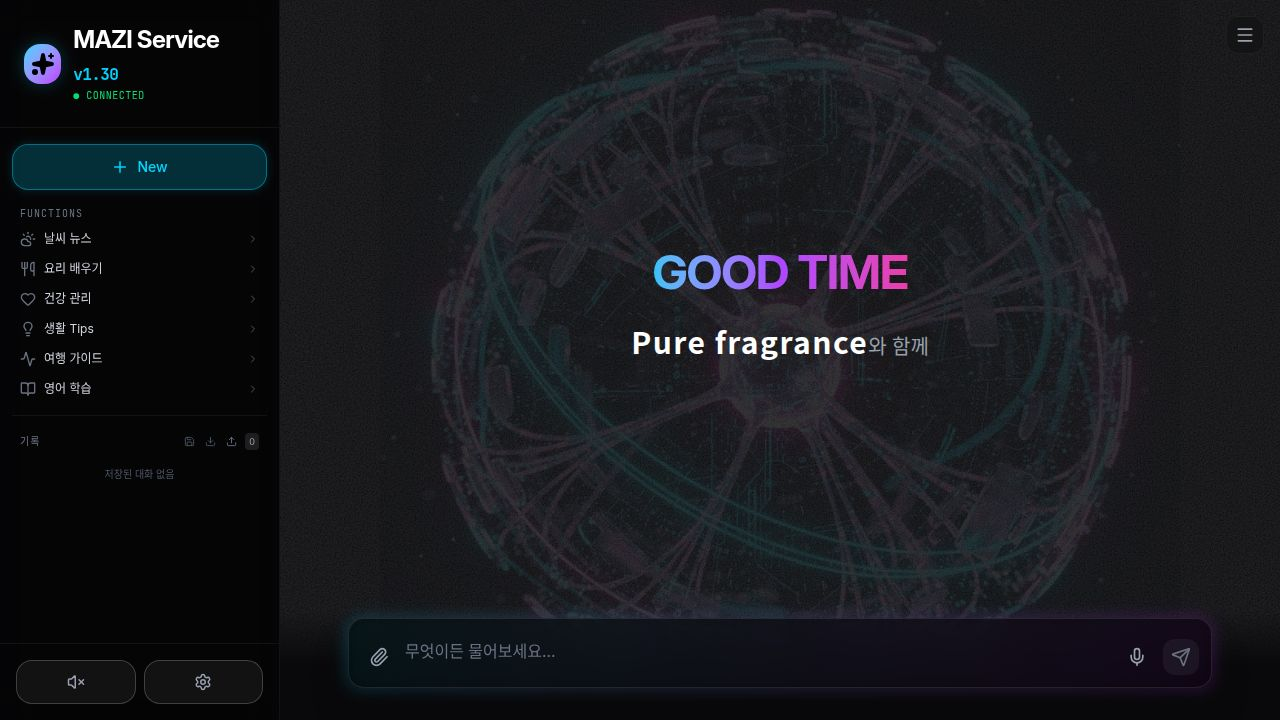
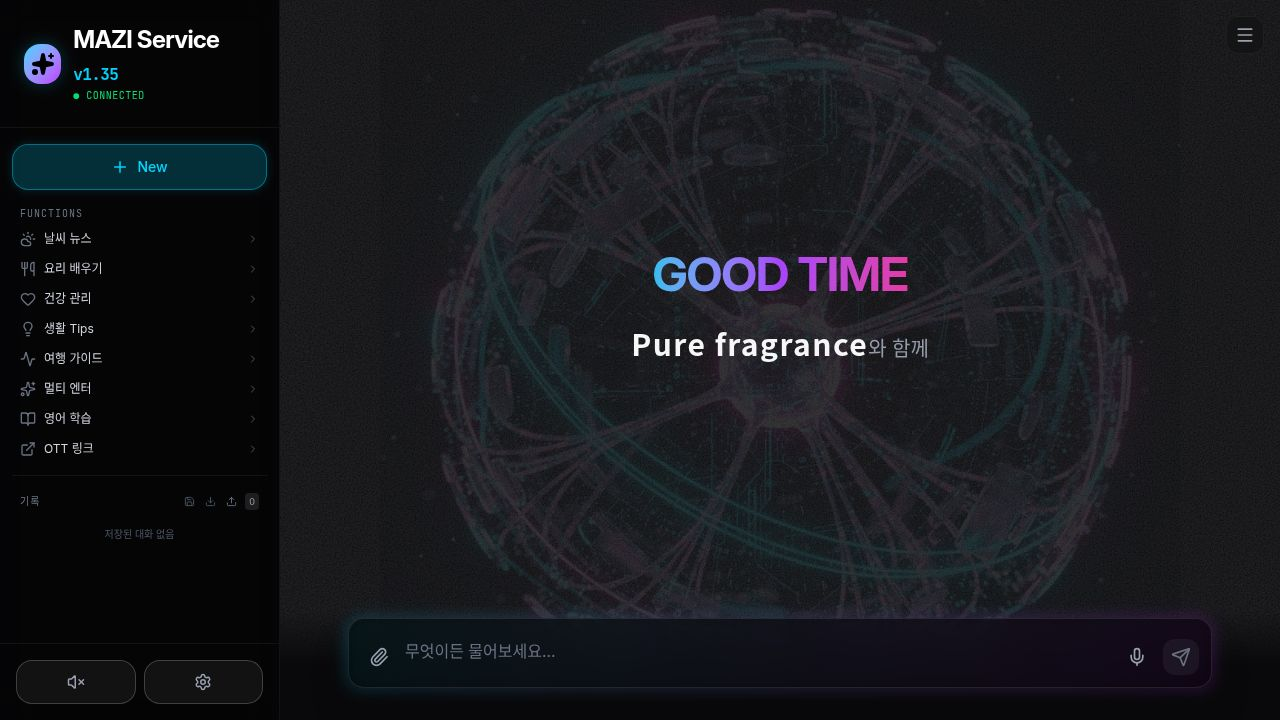
Add new links for popular entertainment and media websites
Adds a new "OTT Links" category with 12 external links to streaming, music, and video sites. Updates the service item handler to open links in a new tab and imports the ExternalLink icon.

Replit-Commit-Author: Agent
Replit-Commit-Session-Id: b53bbd0a-6b91-4287-a6fb-4cf35cea0462
Replit-Commit-Checkpoint-Type: full_checkpoint
Replit-Commit-Event-Id: b284e37b-82d8-49e0-a39f-56a61030e884
Replit-Commit-Screenshot-Url: https://storage.googleapis.com/screenshot-production-us-central1/17fa975f-c6c1-48b8-9661-623460284cfc/b53bbd0a-6b91-4287-a6fb-4cf35cea0462/T2uztH7
Replit-Helium-Checkpoint-Created: true

diff --git a/client/src/lib/prompts.ts b/client/src/lib/prompts.ts
@@ -4,6 +4,7 @@ export interface ServiceItem {
   label: string;
   icon: string;
   prompt: string;
+  link?: string;
 }
 
 export interface ServiceCategory {
@@ -152,6 +153,24 @@ export const SERVICE_DATA: ServiceCategory[] = [
       { id: 'beg_word', icon: '🔤', label: '초급 단어', prompt: '초급~중급에 해당하는 영어 단어를 10개씩 보여주며 발음을 주고 번역 해 주세요.' + ENGLISH_INSTRUCTION },
       { id: 'int_word', icon: '📚', label: '중급 단어', prompt: '중급~고급에 해당하는 영어 단어를 10개씩 보여주며 발음을 주고 번역 해 주세요.' + ENGLISH_INSTRUCTION },
       { id: 'adv_word', icon: '🎓', label: '고급 단어', prompt: '고급~전문에 해당하는 영어 단어를 10개씩 보여주며 발음을 주고 번역 해 주세요.' + ENGLISH_INSTRUCTION },
+    ]
+  },
+  {
+    id: 'ott_links',
+    label: 'OTT 링크',
+    items: [
+      { id: 'netflix', icon: '🎬', label: 'Netflix', prompt: '', link: 'https://www.netflix.com/' },
+      { id: 'coupang_play', icon: '🛒', label: '쿠팡플레이', prompt: '', link: 'https://www.coupangplay.com/' },
+      { id: 'wavve', icon: '📺', label: 'Wavve', prompt: '', link: 'https://www.wavve.com/' },
+      { id: 'tving', icon: '📱', label: 'TVING', prompt: '', link: 'https://www.tving.com/' },
+      { id: 'disney_plus', icon: '🏰', label: 'Disney+', prompt: '', link: 'https://www.disneyplus.com/' },
+      { id: 'melon', icon: '🍈', label: 'Melon', prompt: '', link: 'https://www.melon.com/' },
+      { id: 'genie', icon: '🧞', label: '지니뮤직', prompt: '', link: 'https://www.genie.co.kr/' },
+      { id: 'spotify', icon: '💚', label: 'Spotify', prompt: '', link: 'https://www.spotify.com/' },
+      { id: 'youtube_music', icon: '🎵', label: 'YouTube Music', prompt: '', link: 'https://music.youtube.com/' },
+      { id: 'youtube', icon: '▶', label: 'YouTube', prompt: '', link: 'https://www.youtube.com/' },
+      { id: 'naver_tv', icon: '🟢', label: '네이버TV', prompt: '', link: 'https://tv.naver.com/' },
+      { id: 'kakao_tv', icon: '💬', label: '카카오TV', prompt: '', link: 'https://tv.kakao.com/' },
     ]
   }
 ];

diff --git a/client/src/pages/Home.tsx b/client/src/pages/Home.tsx
@@ -1,6 +1,6 @@
 import React, { useState, useEffect, useRef } from 'react';
 import { motion, AnimatePresence } from 'framer-motion';
-import { Settings, Menu, Plus, Sparkles, Activity, Key, Cpu, ChevronRight, CloudSun, Utensils, Heart, Lightbulb, BookOpen, ArrowLeft, Volume2, VolumeX, MoreVertical, Trash2, Edit2, ArrowUp, Pin, MessageSquare, Download, Upload, Save, X } from 'lucide-react';
+import { Settings, Menu, Plus, Sparkles, Activity, Key, Cpu, ChevronRight, CloudSun, Utensils, Heart, Lightbulb, BookOpen, ArrowLeft, Volume2, VolumeX, MoreVertical, Trash2, Edit2, ArrowUp, Pin, MessageSquare, Download, Upload, Save, X, ExternalLink } from 'lucide-react';
 import { ChatInput } from '@/components/chat/chat-interface';
 import { MessageBubble } from '@/components/chat/message-bubble';
 import { TypingIndicator } from '@/components/ui/typing-indicator';
@@ -12,7 +12,7 @@ import generatedImage from '@assets/generated_images/futuristic_abstract_ai_core
 import { ChatSession } from '@/types';
 
 // App Version - 코드 수정 시 반드시 +0.01 업데이트
-const APP_VERSION = "v1.34";
+const APP_VERSION = "v1.35";
 
 const SESSIONS_STORAGE_KEY = 'mazi-chat-sessions';
 const CURRENT_SESSION_KEY = 'mazi-current-session';
@@ -377,7 +377,11 @@ export default function Home() {
   };
 
   const handleServiceItemClick = (item: ServiceItem) => {
-    handleSend(item.prompt, item.label);
+    if (item.link) {
+      window.open(item.link, '_blank', 'noopener,noreferrer');
+    } else {
+      handleSend(item.prompt, item.label);
+    }
     if (window.innerWidth < 768) {
         setIsSidebarOpen(false);
     }
@@ -401,6 +405,8 @@ export default function Home() {
       case 'life': return <Lightbulb size={16} />;
       case 'english': return <BookOpen size={16} />;
       case 'travel_guide': return <Activity size={16} />;
+      case 'multi_enter': return <Sparkles size={16} />;
+      case 'ott_links': return <ExternalLink size={16} />;
       default: return <Sparkles size={16} />;
     }
   };
